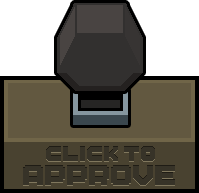
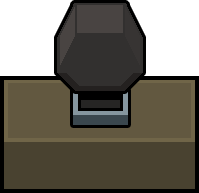
Localization for "click to approve" text on stamper

Changed region(s): [[0.1206, 0.7461, 0.6935, 0.9637], [0.6332, 0.7461, 0.8744, 0.9637], [0.6935, 0.9016, 0.7538, 0.9637]]

diff --git a/source/stonehearth_data/mods/stonehearth/ui/game/promotion_tree/promotion_tree.less b/source/stonehearth_data/mods/stonehearth/ui/game/promotion_tree/promotion_tree.less
@@ -134,6 +134,28 @@
          height: 193px;
          background: url(images/approve_stamper.png);
          display: none;
+         #approveStamperTopText{
+            .controlFont;
+            .outlinedThin(#80775d);
+            width: 199px;
+            position: absolute;
+            bottom: 28px;
+            text-align: center;
+            vertical-align: middle;
+            font-size: 16px;
+            color: #373328;
+         }
+         #approveStamperBottomText{
+            .controlFont;
+            .outlinedThin(#80775d);
+            width: 199px;
+            position: absolute;
+            bottom: 4px;
+            text-align: center;
+            vertical-align: middle;
+            font-size: 24px;
+            color: #373328;
+         }
       }
 
       #citizenName {

diff --git a/source/stonehearth_data/mods/stonehearth/ui/root/css/base.less b/source/stonehearth_data/mods/stonehearth/ui/root/css/base.less
@@ -56,6 +56,10 @@
 	text-shadow: none;
 }
 
+.outlinedThin (@color: #000) {
+   text-shadow: -1px -1px 0px @color, 0px -1px 0px @color, 1px -1px 0px @color, -1px 0px 0px @color, 1px 0px 0px @color, -1px 1px 0px @color, 0px 1px 0px @color, 1px 1px 0px @color;
+}
+
 .outlined (@color: #000) {
    text-shadow: -2px -2px 0px @color, 0px -2px 0px @color, 2px -2px 0px @color, -2px 0px 0px @color, 2px 0px 0px @color, -2px 2px 0px @color, 0px 2px 0px @color, 2px 2px 0px @color;
 }

diff --git a/source/stonehearth_data/mods/stonehearth/ui/game/promotion_tree/promotion_tree.html b/source/stonehearth_data/mods/stonehearth/ui/game/promotion_tree/promotion_tree.html
@@ -29,7 +29,10 @@
             {{i18n stonehearth:promote_scroll_approved}}
          </div>     
 
-         <div id='approveStamper'></div>
+         <div id='approveStamper'>
+            <div id='approveStamperTopText'>{{i18n stonehearth:promote_scroll_stamper_top_text}}</div>
+            <div id='approveStamperBottomText'>{{i18n stonehearth:promote_scroll_stamper_bottom_text}}</div>
+         </div>
 
       </div>
       <div id="info">
